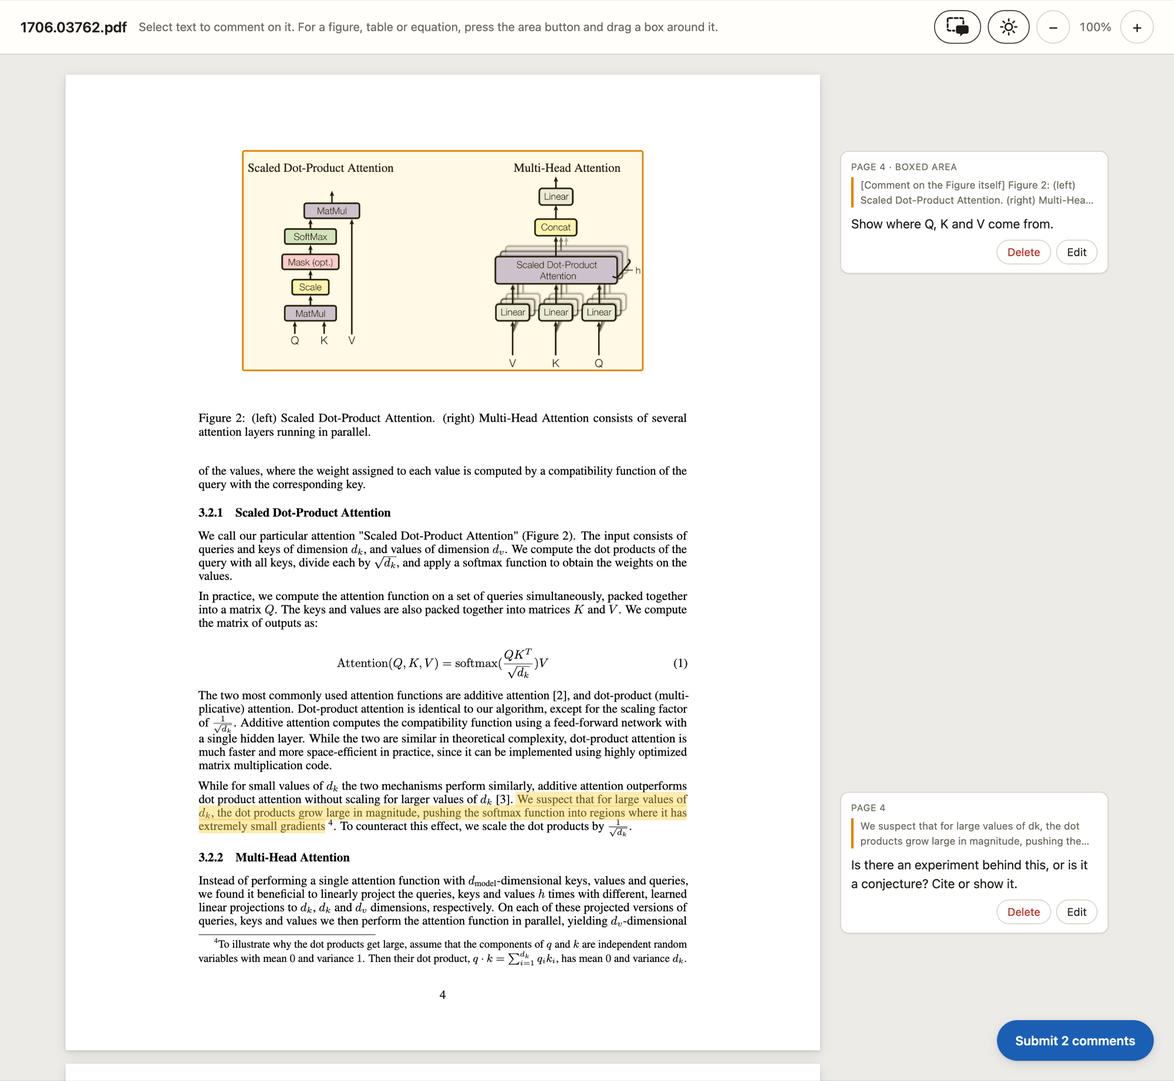
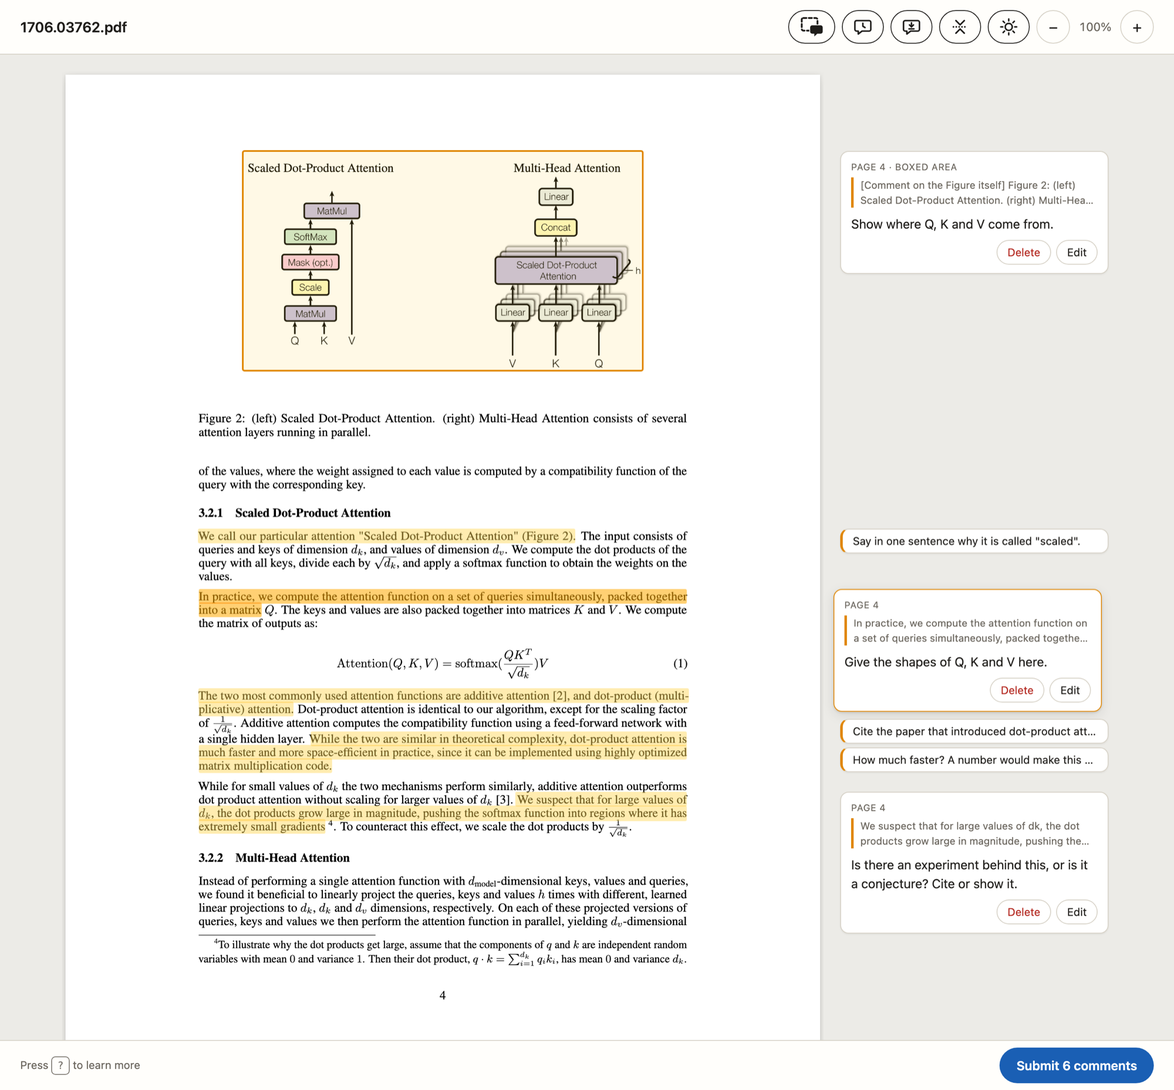
Review page: keep comments beside their text, add navigation and help
- The open comment stays level with its highlight; crowded saved comments
  collapse to one line
- Top bar: go to most recent comment, go to last comment, collapse all
- Keyboard shortcuts (R, L, C, +, -) and a ? help overlay
- Footer holds the help hint and the Submit button
- Comments stay beside the page at any window width; zooming in scrolls
  the page inside its own column
- Comment box grows with its text; hyphenated line breaks quoted cleanly
- README screenshot updated

diff --git a/skills/pdf-human-review/assets/review_template.html b/skills/pdf-human-review/assets/review_template.html
@@ -38,14 +38,17 @@ button { font: inherit; cursor: pointer; }
 
 .topbar { position: sticky; top: 0; z-index: 20; display: flex; gap: 10px 14px; align-items: center; flex-wrap: wrap;
   padding: 12px 24px; min-height: 64px; background: var(--bar); border-bottom: 1px solid var(--rule); }
-.topbar strong { font-weight: 600; font-size: 17px; overflow-wrap: anywhere; }
-.topbar .hint { color: var(--muted); font-size: 14px; flex: 1 1 240px; }
+.topbar strong { font-weight: 600; font-size: 17px; overflow-wrap: anywhere; flex: 1 1 160px; }
+.tipbar { position: fixed; left: 0; right: 0; bottom: 0; z-index: 35; display: flex; align-items: center; gap: 16px;
+  padding: 8px 24px; background: var(--bar); border-top: 1px solid var(--rule); color: var(--muted); font-size: 13px; }
+.tipbar #hint { flex: 1 1 auto; min-width: 0; cursor: pointer; }
 .tools { display: flex; gap: 8px; align-items: center; }
 .tools .btn { min-width: 40px; height: 40px; font-size: 18px; border-radius: 20px; justify-content: center; }
 .btn { border: 1px solid var(--rule); background: transparent; color: var(--ink); border-radius: 16px; padding: 4px 12px; font-size: 13px; }
 .btn:hover { background: var(--bg); }
 .btn.primary { background: var(--accent); color: var(--accent-ink); border-color: var(--accent); font-weight: 600; }
 .btn.primary:disabled { opacity: .45; cursor: default; }
+.tools .btn:disabled { opacity: .35; cursor: default; background: transparent; }
 .btn.danger { color: var(--danger); }
 .btn { --btn-bg: var(--bar); }
 .btn:hover { --btn-bg: var(--bg); }
@@ -53,9 +56,9 @@ button { font: inherit; cursor: pointer; }
 .btn[aria-pressed="true"], .btn[aria-pressed="true"]:hover { background: var(--box); border-color: var(--box); color: #fff; --btn-bg: var(--box); }
 #zoom-label { font-size: 14px; color: var(--muted); min-width: 44px; text-align: center; font-variant-numeric: tabular-nums; }
 
-.layout { display: flex; gap: 24px; justify-content: center; align-items: flex-start; padding: 24px 20px 140px; }
-#pages { flex: 0 0 auto; max-width: 100%; }
-#margin { position: relative; flex: 0 0 320px; }
+.layout { display: flex; gap: 24px; justify-content: center; align-items: flex-start; padding: 24px 20px 120px; }
+#pages { flex: 0 1 auto; min-width: 0; max-width: 100%; overflow-x: auto; padding: 4px; margin: -4px; }
+#margin { position: relative; flex: 0 0 clamp(190px, 30vw, 320px); }
 #status { color: var(--muted); padding: 40px 0; text-align: center; }
 
 .page { position: relative; margin: 0 auto 16px; background: #fff; box-shadow: var(--shadow); overflow: hidden; }
@@ -80,6 +83,10 @@ body.region-mode .textLayer { pointer-events: none; user-select: none; }
 .card-quote { font-size: 12px; color: var(--muted); border-left: 3px solid var(--box); padding-left: 8px;
   margin-bottom: 8px; display: -webkit-box; -webkit-line-clamp: 2; -webkit-box-orient: vertical; overflow: hidden; overflow-wrap: anywhere; }
 .card-body { white-space: pre-wrap; overflow-wrap: anywhere; }
+.card.compact { padding: 4px 12px; border-left: 3px solid var(--box); cursor: pointer; }
+.card.compact .card-where, .card.compact .card-quote, .card.compact .card-actions { display: none; }
+.card.compact .card-body { white-space: nowrap; overflow: hidden; text-overflow: ellipsis; font-size: 13px; }
+.card.compact:hover { border-color: var(--box); }
 .card textarea { width: 100%; min-height: 76px; resize: vertical; font: inherit; color: inherit; background: var(--bar);
   border: 1px solid var(--rule); border-radius: 6px; padding: 8px; }
 .card textarea:focus { outline: 2px solid var(--accent); outline-offset: -1px; }
@@ -88,25 +95,39 @@ body.region-mode .textLayer { pointer-events: none; user-select: none; }
 
 #pop { position: absolute; z-index: 30; background: var(--accent); color: var(--accent-ink); border: 0;
   border-radius: 18px; padding: 6px 14px; font-size: 13px; font-weight: 600; box-shadow: var(--shadow); }
-#submit { position: fixed; right: 24px; bottom: 24px; z-index: 40; background: var(--accent); color: var(--accent-ink);
-  border: 0; border-radius: 26px; padding: 13px 22px; font-size: 15px; font-weight: 600; box-shadow: var(--shadow); }
+#submit { flex: 0 0 auto; background: var(--accent); color: var(--accent-ink);
+  border: 0; border-radius: 22px; padding: 10px 20px; font-size: 15px; font-weight: 600; white-space: nowrap; }
 #submit:hover { filter: brightness(1.08); }
 
 dialog { border: 1px solid var(--rule); border-radius: 12px; background: var(--card); color: var(--ink);
   padding: 20px 22px; width: min(560px, calc(100vw - 32px)); box-shadow: var(--shadow); }
 dialog::backdrop { background: rgba(0,0,0,.45); }
+kbd { display: inline-block; min-width: 22px; padding: 1px 6px; border: 1px solid currentColor; border-radius: 5px;
+  font: 12px/1.5 ui-monospace, SFMono-Regular, Menlo, monospace; text-align: center; opacity: .9; }
+#help { position: fixed; inset: 0; z-index: 60; display: flex; align-items: center; justify-content: center; padding: 24px;
+  background: rgba(12, 13, 15, .86); -webkit-backdrop-filter: blur(3px); backdrop-filter: blur(3px); color: #f2f0ea; overflow-y: auto; }
+#help[hidden] { display: none; }
+.help-panel { width: min(560px, 100%); margin: auto; }
+.help-panel h2 { font-size: 13px; font-weight: 600; letter-spacing: .08em; text-transform: uppercase; color: #b9b4a8; margin: 0 0 10px; }
+.help-panel h2:not(:first-child) { margin-top: 28px; }
+.help-panel p { font-size: 17px; line-height: 1.5; margin: 0; }
+.help-panel dl { display: grid; grid-template-columns: max-content 1fr; gap: 10px 20px; margin: 0; font-size: 16px; align-items: baseline; }
+.help-panel dt { white-space: nowrap; } .help-panel dd { margin: 0; }
+.help-panel .help-close { margin-top: 30px; font-size: 13px; color: #b9b4a8; }
 dialog h2 { margin: 0 0 8px; font-size: 17px; }
 dialog p { margin: 0 0 12px; color: var(--muted); }
 dialog textarea { width: 100%; height: 220px; font: 12px/1.5 ui-monospace, Menlo, monospace; color: inherit;
   background: var(--bar); border: 1px solid var(--rule); border-radius: 6px; padding: 8px; }
 dialog .card-actions { margin-top: 14px; }
 .done-banner { position: sticky; top: 0; z-index: 50; background: #1e7b46; color: #fff; padding: 12px 20px; text-align: center; font-weight: 600; }
-body.submitted #submit, body.submitted #pop, body.submitted .card-actions, body.submitted #region-btn { display: none !important; }
+body.submitted #pop, body.submitted .card-actions, body.submitted #region-btn, body.submitted .tipbar { display: none !important; }
 
-@media (max-width: 1000px) {
-  .layout { flex-direction: column; align-items: stretch; }
-  #margin { flex: none; min-height: 0 !important; }
-  .card { position: static; margin-bottom: 10px; transform: none !important; }
+/* Comments always sit beside the page. In a narrow window the comment column narrows a little
+   and the page shrinks to fit; it never drops below the page. */
+@media (max-width: 720px) {
+  .layout { gap: 12px; padding-left: 10px; padding-right: 10px; }
+  .card { padding: 8px 9px; }
+  .card.on { transform: none; }
 }
 </style>
 <script nonce="{{NONCE}}">
@@ -122,12 +143,32 @@ body.submitted #submit, body.submitted #pop, body.submitted .card-actions, body.
 <body>
 <header class="topbar">
   <strong>{{TITLE}}</strong>
-  <span class="hint" id="hint">Select text to comment on it. For a figure, table or equation, press the area button and drag a box around it.</span>
   <div class="tools">
     <button class="btn icon" id="region-btn" aria-pressed="false" aria-label="Comment on an area" title="Comment on an area: drag a box around a figure, table or equation (or hold Alt and drag)">
       <svg viewBox="0 0 24 24" width="30" height="30" aria-hidden="true">
         <rect x="2.5" y="3.5" width="15" height="12" rx="1.5" fill="none" stroke="currentColor" stroke-width="1.7" stroke-dasharray="3 2.2" stroke-linecap="round"/>
         <path d="M12.5 10.5h8a2 2 0 0 1 2 2v4a2 2 0 0 1-2 2h-3.2l-2.8 2.6v-2.6h-2a2 2 0 0 1-2-2v-4a2 2 0 0 1 2-2z" fill="currentColor" stroke="var(--btn-bg)" stroke-width="1.6" stroke-linejoin="round" paint-order="stroke"/>
+      </svg>
+    </button>
+    <button class="btn icon" id="recent-btn" disabled aria-label="Go to the most recent comment" title="Go to the most recent comment, the one you added or edited last (R)">
+      <svg viewBox="0 0 24 24" width="24" height="24" aria-hidden="true" fill="none" stroke="currentColor" stroke-width="1.8" stroke-linecap="round" stroke-linejoin="round">
+        <path d="M4.5 4.5h15a2 2 0 0 1 2 2v8.5a2 2 0 0 1-2 2H11l-4.5 3.5V17h-2a2 2 0 0 1-2-2V6.5a2 2 0 0 1 2-2z"/>
+        <path d="M12 7.6v3.6l2.6 1.6"/>
+      </svg>
+    </button>
+    <button class="btn icon" id="last-btn" disabled aria-label="Go to the last comment in the document" title="Go to the last comment in the document, the one furthest down the pages (L)">
+      <svg viewBox="0 0 24 24" width="24" height="24" aria-hidden="true" fill="none" stroke="currentColor" stroke-width="1.8" stroke-linecap="round" stroke-linejoin="round">
+        <path d="M4.5 4.5h15a2 2 0 0 1 2 2v8.5a2 2 0 0 1-2 2H11l-4.5 3.5V17h-2a2 2 0 0 1-2-2V6.5a2 2 0 0 1 2-2z"/>
+        <path d="M12 7v4.8"/>
+        <path d="M9.6 9.6 12 12l2.4-2.4"/>
+        <path d="M9 14.4h6"/>
+      </svg>
+    </button>
+    <button class="btn icon" id="collapse-btn" aria-pressed="false" disabled aria-label="Collapse all comments" title="Collapse all comments to one line each; press again to expand (C)">
+      <svg viewBox="0 0 24 24" width="24" height="24" aria-hidden="true" fill="none" stroke="currentColor" stroke-width="1.9" stroke-linecap="round" stroke-linejoin="round">
+        <path d="M7 4.5l5 5 5-5"/>
+        <path d="M7 19.5l5-5 5 5"/>
+        <path d="M4 12h16" stroke-dasharray="0.1 3.3"/>
       </svg>
     </button>
     <button class="btn icon" id="theme-btn" aria-label="Switch between light and dark mode" title="Switch between light and dark mode">
@@ -139,9 +180,9 @@ body.submitted #submit, body.submitted #pop, body.submitted .card-actions, body.
         <path d="M20 14.2A8.3 8.3 0 0 1 9.8 4a8.3 8.3 0 1 0 10.2 10.2z"/>
       </svg>
     </button>
-    <button class="btn" id="zoom-out" aria-label="Zoom out">−</button>
+    <button class="btn" id="zoom-out" aria-label="Zoom out" title="Zoom out (−)">−</button>
     <span id="zoom-label">100%</span>
-    <button class="btn" id="zoom-in" aria-label="Zoom in">+</button>
+    <button class="btn" id="zoom-in" aria-label="Zoom in" title="Zoom in (+)">+</button>
   </div>
 </header>
 <div class="layout">
@@ -149,8 +190,31 @@ body.submitted #submit, body.submitted #pop, body.submitted .card-actions, body.
   <aside id="margin" aria-label="Comments"></aside>
 </div>
 
+<footer class="tipbar">
+  <span id="hint">Press <kbd>?</kbd> to learn more</span>
+  <button id="submit">Submit comments</button>
+</footer>
+
+<div id="help" hidden role="dialog" aria-modal="true" aria-label="How to comment, and keyboard shortcuts">
+  <div class="help-panel">
+    <h2>How to comment</h2>
+    <p>Select text to comment on it. For a figure, table or equation, press the area button and drag a box around it.</p>
+    <h2>Keyboard shortcuts</h2>
+    <dl>
+      <dt><kbd>R</kbd></dt><dd>Go to the most recent comment</dd>
+      <dt><kbd>L</kbd></dt><dd>Go to the last comment in the document</dd>
+      <dt><kbd>C</kbd></dt><dd>Collapse or expand all comments</dd>
+      <dt><kbd>+</kbd> <kbd>−</kbd></dt><dd>Zoom in, zoom out</dd>
+      <dt><kbd>Alt</kbd> + drag</dt><dd>Box an area without pressing the area button</dd>
+      <dt><kbd>⌘/Ctrl</kbd> <kbd>Enter</kbd></dt><dd>Save the comment you are writing</dd>
+      <dt><kbd>Esc</kbd></dt><dd>Cancel the comment you are writing, or a box you are drawing</dd>
+      <dt><kbd>?</kbd></dt><dd>Show or hide this help</dd>
+    </dl>
+    <p class="help-close">Press <kbd>Esc</kbd> to close</p>
+  </div>
+</div>
+
 <button id="pop" hidden>Comment</button>
-<button id="submit">Submit comments</button>
 
 <dialog id="confirm">
   <h2 id="confirm-title">Submit comments?</h2>
@@ -189,6 +253,7 @@ body.submitted #submit, body.submitted #pop, body.submitted .card-actions, body.
   //           quote, label, body, editing, isNew, draft}
   let comments = [], activeId = null, pending = null, submitted = false;
   let pdf = null, pages = [], scale = 1, baseWidth = 820, regionMode = false;
+  let collapseAll = false;   // the "collapse all comments" button: every saved card shows as one line
 
   // ---------- load ----------
   const pdfjsLib = window.pdfjsLib;
@@ -213,7 +278,8 @@ body.submitted #submit, body.submitted #pop, body.submitted .card-actions, body.
   statusEl.remove();
   pages.forEach((p) => pagesEl.appendChild(p.el));
   const widest = Math.max(...pages.map((p) => p.w));
-  const fit = () => clamp(Math.min(900, document.documentElement.clientWidth - (window.matchMedia('(max-width: 1000px)').matches ? 40 : 404)), 280, 900);
+  // the page takes the width left over beside the comment column
+  const fit = () => clamp(Math.min(900, document.documentElement.clientWidth - margin.offsetWidth - (window.innerWidth <= 720 ? 40 : 84)), 240, 900);
   baseWidth = fit();
 
   // ---------- rendering ----------
@@ -263,6 +329,23 @@ body.submitted #submit, body.submitted #pop, body.submitted .card-actions, body.
   }
   $('#zoom-in').addEventListener('click', () => setScale(scale + 0.15));
   $('#zoom-out').addEventListener('click', () => setScale(scale - 0.15));
+  $('#recent-btn').addEventListener('click', () => {
+    const c = recentComment();
+    if (c) activate(c.id, c.editing, true);
+  });
+  $('#last-btn').addEventListener('click', () => {      // last in reading order: furthest down the document
+    const list = sorted();
+    const c = list[list.length - 1];
+    if (c) activate(c.id, c.editing, true);
+  });
+  $('#collapse-btn').addEventListener('click', () => {
+    collapseAll = !collapseAll;
+    if (collapseAll && activeId) {                      // close the open card too, unless it is being written
+      const c = comments.find((x) => x.id === activeId);
+      if (!c || !c.editing) activeId = null;
+    }
+    render();
+  });
   $('#theme-btn').addEventListener('click', () => {
     const next = document.documentElement.dataset.theme === 'dark' ? 'light' : 'dark';
     document.documentElement.dataset.theme = next;
@@ -303,7 +386,7 @@ body.submitted #submit, body.submitted #pop, body.submitted .card-actions, body.
     const node = range.commonAncestorContainer;
     const host = node.nodeType === 1 ? node : node.parentElement;
     if (!host || !pagesEl.contains(host)) return null;
-    const quote = norm(sel.toString());
+    const quote = norm(sel.toString().replace(/-[ \t]*\n[ \t]*/g, '-'));
     if (!quote) return null;
     const raw = [...range.getClientRects()].filter((q) => q.width > 1 && q.height > 1);
     if (!raw.length) return null;
@@ -326,7 +409,7 @@ body.submitted #submit, body.submitted #pop, body.submitted .card-actions, body.
     }
     if (!rects.length) return null;
     const end = raw[raw.length - 1];
-    return { quote, rects, x: end.right, y: clamp(end.bottom + 6, 76, window.innerHeight - 44) };
+    return { quote, rects, x: end.right, y: clamp(end.bottom + 6, 76, window.innerHeight - 100) };
   }
 
   // ---------- region boxes ----------
@@ -360,11 +443,11 @@ body.submitted #submit, body.submitted #pop, body.submitted .card-actions, body.
   function setRegionMode(on) {
     regionMode = on; document.body.classList.toggle('region-mode', on);
     $('#region-btn').setAttribute('aria-pressed', on ? 'true' : 'false');
-    $('#hint').textContent = on ? 'Drag a box around the figure, table or equation. Press Esc to cancel.' : HINT;
+    if (on) $('#hint').textContent = 'Drag a box around the figure, table or equation. Press Esc to cancel.'; else $('#hint').innerHTML = HINT;
     if (on) { window.getSelection().removeAllRanges(); hidePop(); }
   }
   $('#region-btn').addEventListener('click', () => setRegionMode(!regionMode));
-  const HINT = $('#hint').textContent;
+  const HINT = $('#hint').innerHTML;
   let drag = null, justDragged = false;
   pagesEl.addEventListener('mousedown', (e) => {
     if (submitted || e.button !== 0 || !(regionMode || e.altKey)) return;
@@ -398,15 +481,32 @@ body.submitted #submit, body.submitted #pop, body.submitted .card-actions, body.
     create({ kind: 'region', page: p.n, rects: [r], quote: label });
   });
   document.addEventListener('keydown', (e) => {
+    const help = $('#help');
+    if (e.key === 'Escape' && !help.hidden) { help.hidden = true; e.preventDefault(); return; }
     if (e.key === 'Escape' && regionMode) setRegionMode(false);
-    if ((e.metaKey || e.ctrlKey) && e.altKey && e.code === 'KeyM' && pending) { e.preventDefault(); pop.click(); }
+    if ((e.metaKey || e.ctrlKey) && e.altKey && e.code === 'KeyM' && pending) { e.preventDefault(); pop.click(); return; }
+    // Single-key shortcuts. They never fire while typing (a "?" in a comment is just a "?"),
+    // with a modifier key held, or while a dialog is open.
+    const t = e.target;
+    const typing = t && (t.tagName === 'TEXTAREA' || t.tagName === 'INPUT' || t.tagName === 'SELECT' || t.isContentEditable);
+    if (typing || e.metaKey || e.ctrlKey || e.altKey || document.querySelector('dialog[open]')) return;
+    if (e.key === '?') { help.hidden = !help.hidden; e.preventDefault(); return; }
+    if (!help.hidden) return;                           // the help covers the page: only ? and Esc act
+    const press = (id) => { const b = $(id); if (!b.disabled) b.click(); e.preventDefault(); };
+    switch (e.key.toLowerCase()) {
+      case 'r': press('#recent-btn'); break;
+      case 'l': press('#last-btn'); break;
+      case 'c': press('#collapse-btn'); break;
+      case '+': case '=': press('#zoom-in'); break;
+      case '-': case '_': case '−': press('#zoom-out'); break;
+    }
   });
 
   // ---------- persistence ----------
   function save() {
     try {
       localStorage.setItem(STORE, JSON.stringify(comments.filter((c) => !c.isNew).map((c) => ({
-        id: c.id, kind: c.kind, page: c.page, rects: c.rects, quote: c.quote, body: c.body,
+        id: c.id, kind: c.kind, page: c.page, rects: c.rects, quote: c.quote, body: c.body, t: c.t,
       }))));
     } catch (e) { /* storage unavailable: comments live for this page view only */ }
   }
@@ -443,7 +543,9 @@ body.submitted #submit, body.submitted #pop, body.submitted .card-actions, body.
         ta.placeholder = 'Add a comment'; ta.value = c.draft != null ? c.draft : c.body || '';
         const ok = btn(c.isNew ? 'Comment' : 'Save', 'primary', () => commit(c, ta.value));
         ok.disabled = !ta.value.trim();
-        ta.addEventListener('input', () => { c.draft = ta.value; ok.disabled = !ta.value.trim(); layout(); });
+        const grow = () => { ta.style.height = 'auto'; ta.style.height = Math.min(ta.scrollHeight + 2, 320) + 'px'; };
+        ta.addEventListener('input', () => { c.draft = ta.value; ok.disabled = !ta.value.trim(); grow(); layout(); });
+        requestAnimationFrame(() => { grow(); layout(); });
         ta.addEventListener('keydown', (e) => {
           if (e.key === 'Enter' && (e.metaKey || e.ctrlKey) && ta.value.trim()) { e.preventDefault(); commit(c, ta.value); }
           if (e.key === 'Escape') { e.preventDefault(); e.stopPropagation(); cancel(c); }
@@ -466,20 +568,56 @@ body.submitted #submit, body.submitted #pop, body.submitted .card-actions, body.
       if (ta) { ta.focus({ preventScroll: true }); ta.setSelectionRange(ta.value.length, ta.value.length); }
     }
     const n = comments.filter((c) => !c.isNew).length;
+    if (!n) collapseAll = false;
+    $('#recent-btn').disabled = $('#last-btn').disabled = !comments.length;
+    const cb = $('#collapse-btn');
+    cb.disabled = !n;
+    cb.setAttribute('aria-pressed', collapseAll ? 'true' : 'false');
     submitBtn.textContent = n ? 'Submit ' + n + (n === 1 ? ' comment' : ' comments') : 'Submit comments';
     layout();
   }
+  // Margin layout. Two rules keep a comment next to the text it is about:
+  //  1. The active card (the one being written or read) is pinned level with its highlight,
+  //     and the cards before it are pushed up out of its way, as Google Docs does.
+  //  2. A saved card shrinks to one line when its full height would run into the next
+  //     comment's line, so a run of comments on consecutive sentences stays compact.
   function layout() {
+    const GAP = 8;
     const cards = [...margin.querySelectorAll('.card')];
-    if (window.matchMedia('(max-width: 1000px)').matches) { cards.forEach((c) => (c.style.top = '')); return; }
+    cards.forEach((card) => card.classList.remove('compact'));
     const base = margin.getBoundingClientRect().top + window.scrollY;
-    let y = 0;
-    for (const card of cards) {
+    const items = cards.map((card) => {
       const c = comments.find((x) => x.id === card.dataset.cid);
-      const top = Math.max(c ? anchorTop(c) - base : 0, y);
-      card.style.top = top + 'px';
-      y = top + card.offsetHeight + 10;
+      return { card, c, want: c ? Math.max(0, anchorTop(c) - base) : 0, full: card.offsetHeight };
+    });
+    // one-line cards sit closer together than full ones
+    const gap = (i) => (items[i + 1] && items[i].card.classList.contains('compact') && items[i + 1].card.classList.contains('compact') ? 4 : GAP);
+    let bottom = 0;
+    items.forEach((it, i) => {
+      const prev = items[i - 1], next = items[i + 1];
+      const open = it.c && (it.c.id === activeId || it.c.editing);
+      const crowded = (prev && bottom + GAP > it.want + 2) || (next && it.want + it.full + GAP > next.want);
+      if (!open && (collapseAll || crowded)) it.card.classList.add('compact');
+      it.h = it.card.offsetHeight;
+      it.top = Math.max(it.want, prev ? bottom + gap(i - 1) : 0);
+      bottom = it.top + it.h;
+      it.card.style.zIndex = '';
+    });
+    let y = bottom + GAP;
+    const a = items.findIndex((it) => it.c && it.c.id === activeId);
+    if (a >= 0 && items[a].top > items[a].want) {
+      items[a].top = items[a].want;
+      for (let i = a - 1; i >= 0; i--) items[i].top = Math.min(items[i].top, items[i + 1].top - items[i].h - gap(i));
+      // No room above for all of them: the active card stays level with its text, and the
+      // earliest cards pile up at the top like a deck. Each is still one click away through
+      // its highlight on the page.
+      let piled = 0;
+      for (let i = 0; i < a; i++) if (items[i].top < 0) { items[i].top = Math.min(piled, 4) * 3; items[i].card.style.zIndex = String(piled + 1); piled += 1; }
+      for (let i = piled; i <= a; i++) items[i].card.style.zIndex = String(piled + 2);
+      y = items[a].top + items[a].h + GAP;
+      for (let i = a + 1; i < items.length; i++) { items[i].top = Math.max(items[i].want, y); y = items[i].top + items[i].h + gap(i); }
     }
+    for (const it of items) it.card.style.top = it.top + 'px';
     margin.style.minHeight = y + 'px';
   }
   function activate(id, focus, scrollToAnchor) {
@@ -491,7 +629,13 @@ body.submitted #submit, body.submitted #pop, body.submitted .card-actions, body.
     if (scrollToAnchor && c) window.scrollTo({ top: anchorTop(c) - 120, behavior: 'smooth' });
     else card.scrollIntoView({ block: 'nearest', behavior: 'smooth' });
   }
-  function commit(c, text) { c.body = text.trim(); c.editing = false; c.isNew = false; c.draft = null; save(); render(); }
+  function commit(c, text) { c.body = text.trim(); c.editing = false; c.isNew = false; c.draft = null; c.t = Date.now(); save(); render(); }
+  // The most recent comment is the one added or edited last, including one still being written.
+  function recentComment() {
+    let best = null;
+    for (const c of comments) if (!best || (c.t || 0) >= (best.t || 0)) best = c;
+    return best;
+  }
   function cancel(c) { if (c.isNew) return remove(c); c.editing = false; c.draft = null; render(); }
   function remove(c) {
     comments = comments.filter((x) => x !== c);
@@ -499,7 +643,7 @@ body.submitted #submit, body.submitted #pop, body.submitted .card-actions, body.
     save(); render();
   }
   function create(props) {
-    const c = Object.assign({ id: 'c' + Date.now().toString(36) + Math.random().toString(36).slice(2, 6), body: '', editing: true, isNew: true }, props);
+    const c = Object.assign({ id: 'c' + Date.now().toString(36) + Math.random().toString(36).slice(2, 6), body: '', editing: true, isNew: true, t: Date.now() }, props);
     comments.push(c);
     window.getSelection().removeAllRanges(); hidePop();
     activate(c.id, true);
@@ -522,6 +666,8 @@ body.submitted #submit, body.submitted #pop, body.submitted .card-actions, body.
       if (t) showPop(t.x, t.y, t); else hidePop();
     }, 120);
   });
+  $('#help').addEventListener('click', () => { $('#help').hidden = true; });
+  $('#hint').addEventListener('click', () => { if (!regionMode) $('#help').hidden = false; });
   pop.addEventListener('mousedown', (e) => e.preventDefault());
   pop.addEventListener('click', () => {
     if (!pending) return;

diff --git a/README.md b/README.md
@@ -2,7 +2,7 @@
 
 A plugin that lets a person review a PDF in the browser and hand their comments back to the agent that asked.
 
-![The review page: a PDF page with a boxed figure and a highlighted sentence, each with a comment in the margin](docs/screenshot.png)
+![The review page: a PDF page with a boxed figure and several highlighted sentences. One comment is open beside its sentence and the crowded ones are collapsed to a single line.](docs/screenshot.png)
 
 The review page shows the PDF itself, drawn by PDF.js. The reviewer selects text, or presses the area button and drags a box around a figure, table or equation, and writes a comment in the margin. Comments can be edited and deleted. Pressing **Submit comments** sends them to the agent:
 
